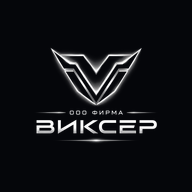
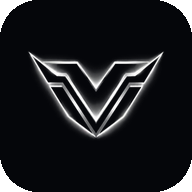
перерисовать фавикон: чёткий знак Виксер вместо нечитаемого 16px

diff --git a/src/routes/__root.tsx b/src/routes/__root.tsx
@@ -16,7 +16,8 @@ export const Route = createRootRoute({
     ],
     links: [
       { rel: "icon", type: "image/svg+xml", href: asset("/favicon.svg") },
-      { rel: "icon", type: "image/x-icon", href: asset("/favicon.ico"), sizes: "32x32" },
+      { rel: "icon", type: "image/png", sizes: "32x32", href: asset("/favicon-32.png") },
+      { rel: "icon", type: "image/x-icon", href: asset("/favicon.ico"), sizes: "16x16 32x32 48x48" },
       { rel: "apple-touch-icon", href: asset("/apple-touch-icon.png") },
       { rel: "manifest", href: asset("/manifest.webmanifest") },
       {
